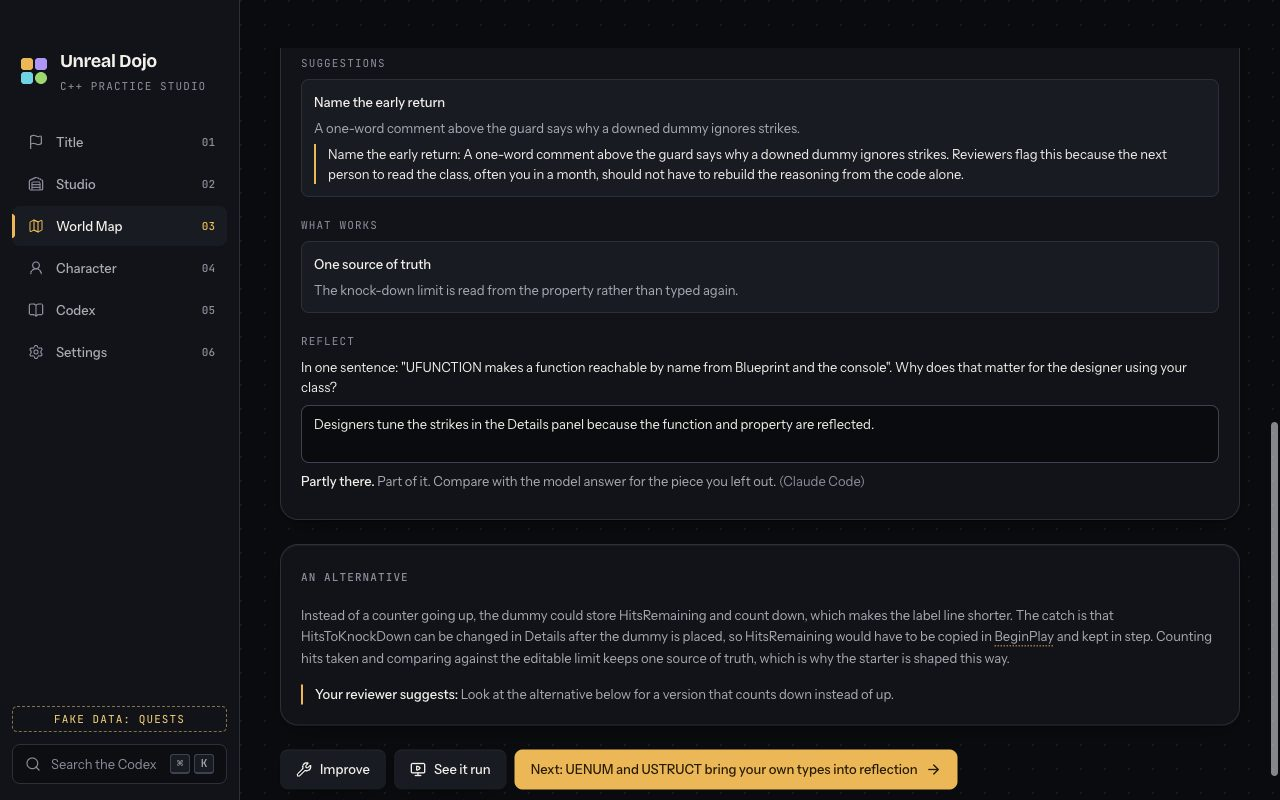
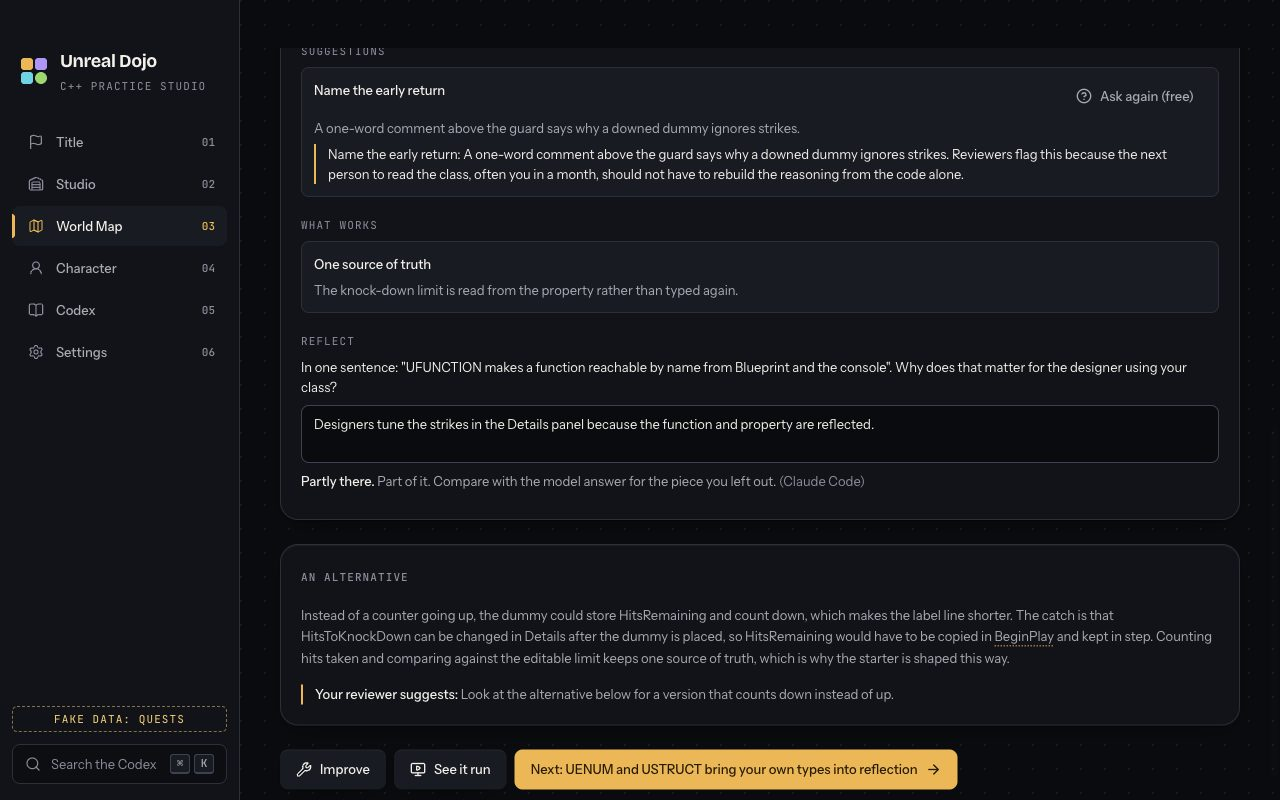
M3.4b fix round 1: fake matches main under Tests only, Why? asks again, reflection timeout
- Fake under Tests only: no fallbackReason on the review or the reflection,
  and main's self-check note (A953).
- "Why?" keeps an "Ask again (free)" button after an answer, since fallback
  answers are never kept (A953).
- Follow-up timeouts say "Press Ask again to try once more" instead of
  "Retry review": ReviewService failover gains timeoutAction, set for
  explainFinding and gradeReflection (A954; one line in ai-review's file,
  ai-review.md updated, reviewExtras.test.ts checks the wording).
- Fake: the first reflection under Claude Code times out; e2e covers the
  self-check, Ask again, and the AI grade, with a screenshot.

Changed region(s): [[0.9688, 0.5312, 1.0, 0.9688], [0.2188, 0.0625, 0.3438, 0.1562], [0.8438, 0.0938, 0.9375, 0.125]]

diff --git a/e2e/ui-quests-flow.spec.ts b/e2e/ui-quests-flow.spec.ts
@@ -589,6 +589,14 @@ test("a build: explain the marked lines, Run fails, a hint, fix, Run passes, Sub
 	await expect(window.getByTestId("finding-explanation")).toBeVisible();
 	await window.getByTestId("reflection").getByRole("textbox").fill("Designers tune the strikes in the Details panel because the function and property are reflected.");
 	await window.getByTestId("reflection").getByRole("button", { name: "Send my answer" }).click();
+
+	// The first reflection times out (as the first review did): a self-check with the reason and Ask again, which then gets Claude Code's grade (A954).
+	await expect(window.getByTestId("reflection-grade")).toHaveAttribute("data-provider", "tests-only");
+	await expect(window.getByTestId("reflection-fallback")).toContainText("Press Ask again");
+	await expect(window.getByTestId("reflection-fallback")).not.toContainText("Retry review");
+	await window.getByTestId("reflection").scrollIntoViewIfNeeded();
+	await saveScreenshot("loot-reflection-timeout");
+	await window.getByTestId("reflection-ask-again").click();
 	await expect(window.getByTestId("reflection-grade")).toHaveAttribute("data-provider", "claude-code");
 
 	// The alternative comes from getQuestAlternative after the pass, with the AI reviewer's pointer (A850).
@@ -620,7 +628,7 @@ test("a build: explain the marked lines, Run fails, a hint, fix, Run passes, Sub
 	await expect(window.getByTestId("reflection-grade")).toBeVisible();
 });
 
-test("with Tests only, Why? and the reflection answer as self-checks with the reason, and the alternative has no reviewer hint (A855, A950)", async () =>
+test("with Tests only, Why? answers with the reason and can be asked again, the reflection is a self-check, and the alternative has no reviewer hint (A855, A950, A953)", async () =>
 {
 	await setViewport(PROOF_SIZE.width, PROOF_SIZE.height);
 	await openFake("#/settings");
@@ -641,7 +649,10 @@ test("with Tests only, Why? and the reflection answer as self-checks with the re
 	await expect(window.getByTestId("screen-loot")).toHaveAttribute("data-passed", "true", { timeout: 20_000 });
 	await expect(window.getByTestId("code-review")).toHaveAttribute("data-provider", "tests-only");
 
-	// Why? still answers, with the reason no AI could explain it.
+	// Why? still answers, with the reason no AI could explain it; that answer is not kept, so it can be asked again (A953).
+	await window.getByTestId("finding-why").first().click();
+	await expect(window.getByTestId("finding-explanation")).toContainText("An AI reviewer can check this");
+	await expect(window.getByTestId("finding-why").first()).toHaveText(/Ask again \(free\)/);
 	await window.getByTestId("finding-why").first().click();
 	await expect(window.getByTestId("finding-explanation")).toContainText("An AI reviewer can check this");
 
@@ -650,7 +661,9 @@ test("with Tests only, Why? and the reflection answer as self-checks with the re
 	await window.getByTestId("reflection-send").click();
 	await expect(window.getByTestId("reflection-grade")).toHaveAttribute("data-provider", "tests-only");
 	await expect(window.getByTestId("reflection-grade")).toContainText("Not graded");
-	await expect(window.getByTestId("reflection-fallback")).toContainText("Settings");
+	await expect(window.getByTestId("reflection-grade")).toContainText("Self-check: reread your sentence against the question and your code.");
+	await expect(window.getByTestId("reflection-fallback")).toHaveCount(0);
+	await expect(window.getByTestId("reflection-ask-again")).toHaveCount(0);
 
 	// The alternative opens after the pass; a tests-only review gives no reviewer hint.
 	await expect(window.getByTestId("loot-alternative")).toBeVisible();

diff --git a/src/renderer/src/data/fake/FakeQuestFlow.ts b/src/renderer/src/data/fake/FakeQuestFlow.ts
@@ -65,6 +65,12 @@ export interface FakeQuestHost
 /** What the fake says when no AI reviewer is set up, in the tests-only provider's words. */
 const NO_REVIEWER_NOTE = "An AI reviewer can check this for you once Claude Code or an API key is set up in Settings.";
 
+/** The tests-only provider's note on a reflection it cannot grade (a self-check with no model answer). */
+const SELF_CHECK_NOTE = "Self-check: reread your sentence against the question and your code.";
+
+/** What a follow-up's timeout says to do, as the review service words it for follow-ups (A954). */
+const FOLLOW_UP_TIMEOUT_ACTION = "Press Ask again to try once more. Your tests still count.";
+
 /** An AppError the fake rejects with. */
 function fail(code: AppError["code"], message: string, suggestedAction: string): AppError
 {
@@ -95,6 +101,7 @@ export class FakeQuestFlow
 	private readonly drills = new FakeDrillSessions();
 	private readonly shownPlans = new Map<string, { plan: BreakdownPlan; referencePlanIndex: number }>();
 	private reviewTimedOut = false;
+	private reflectionTimedOut = false;
 
 	/** The run of each recorded Submit, by attempt id, so Retry review can review it again without a new run (A740). */
 	private readonly submittedRuns = new Map<string, { quest: LearnerQuest; run: RunResult }>();
@@ -438,7 +445,15 @@ export class FakeQuestFlow
 		if (attempt.reflection?.answer === answer && attempt.reflection.grade.provider !== "tests-only") return attempt.reflection.grade;
 
 		// With Tests only, nothing can grade the sentence: a self-check with the reason, never kept (A855).
-		if (this.host.settings().reviewProvider === "tests-only") return { score: 70, verdict: "partly", note: `Self-check against the question: ${attempt.review.reflectionQuestion}`, provider: "tests-only", fallbackReason: NO_REVIEWER_NOTE };
+		if (this.host.settings().reviewProvider === "tests-only") return { score: 70, verdict: "partly", note: SELF_CHECK_NOTE, provider: "tests-only" };
+
+		// With Claude Code chosen, the first reflection times out like the first review, so the self-check offers Ask again (A300, A954).
+		if (this.host.settings().reviewProvider === "claude-code" && !this.reflectionTimedOut)
+		{
+			this.reflectionTimedOut = true;
+
+			return { score: 70, verdict: "partly", note: SELF_CHECK_NOTE, provider: "tests-only", fallbackReason: `Claude Code did not answer within 3 minutes. ${FOLLOW_UP_TIMEOUT_ACTION}`, retryReviewSuggested: true };
+		}
 
 		const grade = gradeSentence(answer, this.quest(attempt.questId).concepts.join(" "));
 		const reflection = { answer, grade, at: new Date().toISOString() };
@@ -535,7 +550,7 @@ export class FakeQuestFlow
 		}
 
 		// With Tests only chosen, the review is graded by the tests alone and says why, as the review service does (no retry suggested: nothing timed out).
-		if (this.host.settings().reviewProvider === "tests-only") return { ...reviewCode(quest, run, "tests-only"), fallbackReason: NO_REVIEWER_NOTE, score: Math.round((run.testsPassed / Math.max(1, run.testsTotal)) * 100) };
+		if (this.host.settings().reviewProvider === "tests-only") return { ...reviewCode(quest, run, "tests-only"), score: Math.round((run.testsPassed / Math.max(1, run.testsTotal)) * 100) };
 
 		return reviewCode(quest, run, "claude-code");
 	}

diff --git a/tests/renderer/reviewExtrasScreens.test.ts b/tests/renderer/reviewExtrasScreens.test.ts
@@ -30,7 +30,7 @@ describe("the fake's review extras", () =>
 		expect(alternative?.reviewHint).toBeTruthy();
 	}, 20_000);
 
-	it("with Tests only: the review, Why? and the reflection fall back with the reason, nothing is kept, and the alternative has no hint", async () =>
+	it("with Tests only: the review, Why? and the reflection fall back like the real bridge, nothing is kept, and the alternative has no hint", async () =>
 	{
 		const fake = new FakeDojoApi("quests");
 		await fake.updateSettings({ reviewProvider: "tests-only" });
@@ -43,10 +43,28 @@ describe("the fake's review extras", () =>
 		const reflection = await fake.answerReflection({ attemptId, answer: "Designers tune the score from the editor because the list is reflected." });
 		const attempt = (await fake.getProgress()).attempts.find((candidate) => candidate.attemptId === attemptId);
 
+		// As the real ProviderSelector answers Tests only: no fallbackReason, and the tests-only provider's own words (A953).
+		expect(submitted.review?.fallbackReason).toBeUndefined();
 		expect(why).toContain("An AI reviewer can check this");
-		expect(reflection).toMatchObject({ provider: "tests-only", fallbackReason: expect.stringContaining("Settings") });
+		expect(reflection).toEqual({ score: 70, verdict: "partly", note: "Self-check: reread your sentence against the question and your code.", provider: "tests-only" });
 		expect(attempt?.explanations ?? {}).toEqual({});
 		expect(attempt?.reflection).toBeUndefined();
 		expect((await fake.getQuestAlternative("f1-score-keeper"))?.reviewHint).toBeUndefined();
+	}, 20_000);
+
+	it("with Claude Code: the first reflection times out into a self-check that offers Ask again, and asking again gets an AI grade that is kept (A954)", async () =>
+	{
+		const fake = new FakeDojoApi("quests");
+		await fake.updateSettings({ reviewProvider: "claude-code" });
+		const submitted = await fake.submitQuest({ runId: "r", questId: "f1-score-keeper", files: await passingScoreKeeperFiles(fake) });
+		const request = { attemptId: submitted.outcome.attempt.attemptId, answer: "Casting each entry keeps the keeper from trusting whatever a designer put in the list." };
+
+		const timedOut = await fake.answerReflection(request);
+		const askedAgain = await fake.answerReflection(request);
+		const attempt = (await fake.getProgress()).attempts.find((candidate) => candidate.attemptId === request.attemptId);
+
+		expect(timedOut).toMatchObject({ provider: "tests-only", retryReviewSuggested: true, fallbackReason: expect.stringContaining("Press Ask again") });
+		expect(askedAgain.provider).toBe("claude-code");
+		expect(attempt?.reflection?.grade.provider).toBe("claude-code");
 	}, 20_000);
 });

diff --git a/src/main/services/review/ReviewService.ts b/src/main/services/review/ReviewService.ts
@@ -76,12 +76,18 @@ interface FailoverOptions
 
 	/** True when a bad or refused reply should fall back to tests only with a retry hint instead of failing the call. */
 	fallBackOnBadReply?: boolean;
+
+	/** What a timeout tells the learner to do, in place of the error's own "Press Retry review" (follow-ups are asked again, not retried, A954). */
+	timeoutAction?: string;
 }
+
+/** What a follow-up's timeout says to do: "Why?" and the reflection are asked again from the same screen (A954). */
+export const FOLLOW_UP_TIMEOUT_ACTION = "Press Ask again to try once more. Your tests still count.";
 
 /** The failover rule of a follow-up: the paid API is skipped with a reason when the attempt's tests did not all pass (A70, A851, A852). */
 function followUpFailover(options: FollowUpOptions): FailoverOptions
 {
-	return { skipReason: (provider) => (provider.id === "anthropic-api" && !options.allowPaidApi ? API_FOLLOW_UP_REASON : null) };
+	return { skipReason: (provider) => (provider.id === "anthropic-api" && !options.allowPaidApi ? API_FOLLOW_UP_REASON : null), timeoutAction: FOLLOW_UP_TIMEOUT_ACTION };
 }
 
 /** The tiny request the Settings "Test" button sends through Claude Code, to prove the login works end to end. */
@@ -209,7 +215,7 @@ export class ReviewService
 
 				const { code, message, suggestedAction } = error.appError;
 
-				if (code === "review-timeout") return useTestsOnly({ reason: `${message} ${suggestedAction}`, retryReviewSuggested: true });
+				if (code === "review-timeout") return useTestsOnly({ reason: `${message} ${options.timeoutAction ?? suggestedAction}`, retryReviewSuggested: true });
 				if (options.fallBackOnBadReply && BAD_REPLY_CODES.has(code)) return useTestsOnly({ reason: `${message} The tests-only review stands in; press Retry review to ask again.`, retryReviewSuggested: true });
 				if (!PROVIDER_UNAVAILABLE_CODES.has(code)) throw error;
 

diff --git a/tests/review/reviewExtras.test.ts b/tests/review/reviewExtras.test.ts
@@ -204,6 +204,10 @@ describe("a fallback answer is never kept (A855)", () =>
 
 		const fallback = await handlers.explainFinding({ attemptId, findingIndex: 0 });
 		expect(fallback).toContain("took longer than 180 seconds");
+
+		// A follow-up is asked again from the same screen, so its timeout says "Ask again", never "Retry review" (A954).
+		expect(fallback).toContain("Press Ask again to try once more.");
+		expect(fallback).not.toContain("Retry review");
 		expect(progress.getProgress().attempts[0]).not.toHaveProperty("explanations");
 
 		await expect(handlers.explainFinding({ attemptId, findingIndex: 0 })).resolves.toBe("The real answer.");
@@ -220,7 +224,10 @@ describe("a fallback answer is never kept (A855)", () =>
 		const submit = await handlers.submitQuest(REQUEST, () => undefined, new AbortController().signal);
 		const request = { attemptId: submit.outcome.attempt.attemptId, answer: "The delegate keeps the HUD out of gameplay." };
 
-		await expect(handlers.answerReflection(request)).resolves.toMatchObject({ provider: "tests-only", retryReviewSuggested: true });
+		const timedOut = await handlers.answerReflection(request);
+		expect(timedOut).toMatchObject({ provider: "tests-only", retryReviewSuggested: true });
+		expect(timedOut.fallbackReason).toContain("Press Ask again to try once more.");
+		expect(timedOut.fallbackReason).not.toContain("Retry review");
 		expect(progress.getProgress().attempts[0]).not.toHaveProperty("reflection");
 
 		await expect(handlers.answerReflection(request)).resolves.toMatchObject({ provider: "claude-code", verdict: "correct" });

diff --git a/src/renderer/src/screens/quests/loot/FindingRow.tsx b/src/renderer/src/screens/quests/loot/FindingRow.tsx
@@ -15,13 +15,13 @@ interface FindingRowProps
 	readonly findingIndex: number;
 }
 
-/** Title, where it points, detail, and the Why? answer once asked. */
+/** Title, where it points, detail, and the Why? answer once asked, with Ask again after it. */
 export function FindingRow({ finding, attemptId, findingIndex }: FindingRowProps)
 {
 	const [explanation, setExplanation] = useState<string | null>(null);
 	const explain = useDojoAction((client) => client.explainFinding({ attemptId, findingIndex }));
 
-	/** Asks why, once. */
+	/** Asks why. A fallback answer is never kept (A855), so asking again can reach a reviewer; a kept AI answer comes back at once, still free (A953). */
 	const askWhy = async (): Promise<void> =>
 	{
 		const answer = await explain.run();
@@ -41,10 +41,10 @@ export function FindingRow({ finding, attemptId, findingIndex }: FindingRowProps
 						</span>
 					)}
 				</span>
-				{finding.severity !== "praise" && !explanation && (
+				{finding.severity !== "praise" && (
 					<Button size="sm" variant="ghost" onClick={() => void askWhy()} disabled={explain.isPending} data-testid="finding-why">
 						<HelpCircleIcon />
-						{explain.isPending ? "Asking" : "Why? (free)"}
+						{explain.isPending ? "Asking" : explanation ? "Ask again (free)" : "Why? (free)"}
 					</Button>
 				)}
 			</div>

diff --git a/docs/systems/ui-quests.md b/docs/systems/ui-quests.md
@@ -50,7 +50,7 @@ Last updated by M2.2b (flow bugs from the real-engine run).
 - Drill (`DrillScreen.tsx`, `screens/quests/drill/`): starts once, one item at a time, Check then Next (Cmd/Ctrl+Enter for both), the next due time under each answer, then the finish card (right count, XP, streak, next due date, chest, test-out; `drillSummaryCopy.ts` counts graded items only, names self-checked explain items on their own line, and shows "N explained" instead of "0/0" when nothing was graded, A940, A941). The Parsons fallback returns to its quest.
 - Breakdown (`screens/quests/breakdown/`): spec, React Flow board (`BreakdownBoard`, `PieceNode`), and a side panel that is also the keyboard path (`PiecePanel`: add by kind, list, name, required purpose; `ArrowPanel`: from, meaning, to). `boardModel.ts` holds the pure rules (new pieces, the grid layout with `columnsForBox` choosing columns from the board's measured shape through `useElementSize`, what blocks a submit, reference plans in the board's shape). Submit plan, then both boards side by side with the reference read-only, pattern chips, and the revision note (`RevisionPanel`); Grade my revision opens the loot. Positions are not saved (A355). The spec folds below 1300 wide; there the compare boards take the full width one above the other with the revise panel after them. The revise panel also lists the reference plan as text (`ReferencePlanList`). A boss opens on its breakdown.
 - Build and refactor (`screens/quests/build/`): `BuildWorkspace` lays out three columns. Left `BriefColumn` (scaffold badge, brief, concepts, patterns after a pass, rubric, the "See it in the editor" checklist from `splitBrief.ts`), folded below 1600 wide and when the gaps open (A360); `BuildQuestView` opens it only from a fresh read of the save (A813). Center `EditorColumn` (file tabs, Monaco) with the worked-level `SelfExplanationGate` (`markedLines.ts`, keys `<file>:<line>`, A359). Right `RunColumn`: sticky Run, Submit, Open Editor; `RunProgress` (loop and reason, phases, elapsed, last line, Cancel); `LastSubmitCard` with Retry review; `TestList`; `BuildLog` (the result shown is the last Run, or the last Submit with its tests or compiler output, from the loot hand-off or the quest's latest stored attempt, so it survives a reload, A810, A814); `HintSpells` (the paid hints' texts come back with the quest as `revealedHints`; Reveal asks `revealHint` for the next index, so a repeat is answered free, A501, A502); `FailedSubmitOffers` (Parsons fallback; Seer Stone explained but disabled, A358). The column wraps its buttons and never scrolls sideways.
-- Loot (`LootScreen.tsx`, `screens/quests/loot/`): `ScoreCountUp` (the one reward motion of the score), `XpBreakdownList`, `ProgressChanges` (level and role, cards flipping in, skills, spree, streak, chest, unlocks, next reviews), then `ConceptResultsSection`, `BreakdownGradeSection`, or `CodeReviewSection` (provider and review score, fallback with Retry review (`retryReview` reviews the stored attempt again with no new attempt; `withRetriedReview.ts` swaps only the review into the loot entry, A740), rubric lines, findings by severity with a free Why?, `ReflectionBox`: prefilled from the kept reflection, revisable, a self-check with its reason under Tests only, A951), the alternative after a pass (`AlternativePanel` from `getQuestAlternative`, with the reviewer's hint when an AI wrote one, A950), and Improve, See it run, Next. Next (the next open quest in the world, else back to the map, A812). Next takes focus once, when it first becomes known, and background refetches leave it alone (A815, A817). Next reviews name each day once, with past times as "due now" (A811, A816).
+- Loot (`LootScreen.tsx`, `screens/quests/loot/`): `ScoreCountUp` (the one reward motion of the score), `XpBreakdownList`, `ProgressChanges` (level and role, cards flipping in, skills, spree, streak, chest, unlocks, next reviews), then `ConceptResultsSection`, `BreakdownGradeSection`, or `CodeReviewSection` (provider and review score, fallback with Retry review (`retryReview` reviews the stored attempt again with no new attempt; `withRetriedReview.ts` swaps only the review into the loot entry, A740), rubric lines, findings by severity with a free Why? that can be asked again (A953), `ReflectionBox`: prefilled from the kept reflection, revisable, a self-check with its reason under Tests only, A951), the alternative after a pass (`AlternativePanel` from `getQuestAlternative`, with the reviewer's hint when an AI wrote one, A950), and Improve, See it run, Next. Next (the next open quest in the world, else back to the map, A812). Next takes focus once, when it first becomes known, and background refetches leave it alone (A815, A817). Next reviews name each day once, with past times as "due now" (A811, A816).
 
 ### Tests
 - `tests/renderer/questHelpers.test.ts` (shuffle, board model, brief split, marked lines, routes, term matching) and `tests/renderer/fakeQuestFlow.test.ts` (the fake serves content's World 1, grading, runs, hints, the review timeout, concept, breakdown, drills).

diff --git a/docs/decisions.md b/docs/decisions.md
@@ -10,8 +10,15 @@ Even with A972, every launch spent its first tenth of a second as a regular app,
 ### A972 2026-10-26 A hidden macOS test app is "prohibited", without dock.hide() (M0.1c, builder-shell)
 Options: keep `app.dock.hide()` (policy "accessory"); set the activation policy to "prohibited"; both. Chosen: "prohibited" alone, as the first statement of `start()`: no Dock icon, no menu bar, and the app can never become active. Calling `dock.hide()` afterwards set the policy back to "accessory" (seen with a process watcher), so it was removed. Nothing in the e2e suite broke. Reverse cost: none.
 
+### A954 2026-10-26 Follow-up timeouts say "Ask again"; the fake's first reflection times out (M3.4b fix round 1, builder-ui-quests; one line in ai-review's ReviewService)
+A timed-out "Why?" or reflection fell back with the review error's suggested action, "Press Retry review to ask again", but the loot screen has no Retry review for a follow-up: the learner asks again from the same place. Options: reword in the renderer; reword where the reason is built. Chosen: where it is built. `ReviewService`'s failover options gain an optional `timeoutAction`, which follow-ups set to "Press Ask again to try once more. Your tests still count." (`FOLLOW_UP_TIMEOUT_ACTION`); code reviews keep the Retry review wording. This is a small edit in ai-review's file, named here; `tests/review/reviewExtras.test.ts` now checks the wording for both follow-ups. The fake's first reflection under Claude Code now times out the same way (a tests-only self-check with that reason and `retryReviewSuggested`), like its first review, so the e2e can show Ask again leading to an AI grade. Reverse cost: none.
+
+### A953 2026-10-26 "Why?" can be asked again; the fake matches the real bridge under Tests only (M3.4b fix round 1, builder-ui-quests; Lead decision on the fake)
+A fallback answer to "Why?" is never kept (A855) so that the next ask reaches a reviewer, but the button hid after the first answer. Now it stays as "Ask again (free)"; a kept AI answer comes back at once, still free. And under Tests only the real `ProviderSelector` gives no `fallbackReason`, while the fake added one to the review and the reflection: the fake now leaves it out and words the reflection self-check as main does ("Self-check: reread your sentence against the question and your code."). `ProviderSelector` is unchanged (Lead decision). Reverse cost: none.
+
 ### A952 2026-10-26 "Why?" stays as it was; the fake falls back like the review service under Tests only (M3.4b, builder-ui-quests)
 `explainFinding` answers text whether an AI or a fallback answered (a fallback is the finding's detail plus why, never kept, A855), so the finding row shows any answer the same way and needs no new state; a second ask of a kept answer simply returns at once. The fake now matches main when Settings' review provider is Tests only: the code review is tests-only with the "set up a reviewer" reason, "Why?" answers the detail plus that reason, and the reflection answers a self-check with `fallbackReason`; neither is kept. Before, the fake answered every follow-up as an AI. Reverse cost: none.
+Fix round 1: the fake no longer adds a fallback reason under Tests only, and "Why?" can be asked again (A953, A954).
 
 ### A951 2026-10-26 The reflection box shows the kept answer and lets the learner revise it (M3.4b, builder-ui-quests)
 Options: keep the box locked after one answer; show the kept answer and allow a new sentence. Chosen: the second, as A852 grades a new sentence and replaces the kept one. On load the box is prefilled once from `PlayerProgress.attempts[].reflection` with its grade (the learner's typing is never overwritten). The grade shows while the box holds the graded sentence; editing hides it and offers "Send the new answer". An AI grade reads as before with the reviewer's name; a tests-only answer reads "Not graded: compare your sentence with the note" with its reason, and offers "Ask again" only when `retryReviewSuggested` (a timeout). Reverse cost: none.

diff --git a/docs/systems/ai-review.md b/docs/systems/ai-review.md
@@ -47,7 +47,7 @@ Last updated by M3.4 (alternative after a pass, kept explanations, reflection an
 ### Folder `src/main/services/review/`
 - `ReviewService.ts`: the one entry point. `reviewCode` (skips when the build failed), `gradeBreakdown`, `gradeExplain` (explain items and reflection answers), `explainFinding`, `getProviderStatuses` (cached checks), `testClaudeCode` (rechecks and sends a tiny real round trip, so "not signed in" shows in Settings; a not-installed or not-signed-in failure marks Claude Code in the selector, a timeout does not, a pass clears it). `createReviewService(settings)` builds the real parts. Each call asks the selector and runs the grader; what a failure does depends on its code:
   - `review-unavailable` or `secure-storage-unavailable`: the provider is marked and the selector asks again, so the review lands on the next AI provider in `auto` or on tests-only, which sets `fallbackReason` (A154, A301).
-  - `review-timeout`: tests-only answers at once with `fallbackReason` and `retryReviewSuggested: true`; the next AI provider is never tried, so a slow Claude Code never becomes a paid API review, and the timed-out provider is not marked (A300).
+  - `review-timeout`: tests-only answers at once with `fallbackReason` and `retryReviewSuggested: true`; the next AI provider is never tried, so a slow Claude Code never becomes a paid API review, and the timed-out provider is not marked (A300). The reason is the error's message plus its suggested action ("Press Retry review"), except on the two follow-ups, whose failover sets `timeoutAction` to "Press Ask again to try once more" because they are asked again from the loot screen, not retried (A954).
   - cancel, refusal, invalid output, and anything else are thrown as they are.
 - `ProviderSelector.ts`: reads `IReviewSettings.providerChoice()` on every call. `auto` walks Claude Code, then the API; anything unavailable ends in tests-only with the joined reasons. `markUnavailable(id, reason)` sets a provider aside for 10 minutes (`UNAVAILABLE_MARK_MS`, clock injectable); `statuses()` shows the mark's reason; `clearMark(id)` ends it.
 - `ReviewInputs.ts`: what each grader reads (quest brief, rubric, files, `RunResult`; breakdown spec, required pieces, reference plans, both plans, revision note; explain prompt, model answer, context, sentence; finding plus files). Defined here until content types land (A148).

diff --git a/docs/iterations.md b/docs/iterations.md
@@ -1513,7 +1513,17 @@ What to look for: anything confusing, slow, or wrong. Note the step number for e
 *After a pass with Claude Code: the alternative and the reviewer's pointer; the reflection graded by Claude Code above it.*
 
 ![[m2-2-loot-review-extras-tests-only.jpg|800]]
-*With Tests only: "Why?" answers with the reason, the reflection is a self-check, and the alternative has no reviewer pointer.*
+*With Tests only: "Why?" answers with the reason and can be asked again, the reflection is a self-check in the reviewer's own words, and the alternative has no reviewer pointer.*
 
 - Decisions made: A950 to A952.
 - Left for content-engine: no screen reads `alternative` or `alternativeNote` from the quest any more, so the catalog can stop sending them before a pass (A850).
+
+### Fix round 1
+- What the reviewer and the Lead asked for: the sample data added a "set up a reviewer" reason under Tests only that the real app does not give, and worded the reflection self-check differently; "Why?" could not be asked again after a fallback answer, which is never kept; and the reflection's timeout and "Ask again" were never shown.
+- What changed: the sample data now answers exactly like the real app under Tests only. "Why?" keeps its button as "Ask again (free)" after an answer. When a reviewer times out on "Why?" or the reflection, the reason now says "Press Ask again to try once more" instead of pointing at Retry review, which those two do not have (a one-line change where the review service builds the reason). The sample data's first reflection with Claude Code times out, so the screens show the self-check with Ask again, and asking again gets Claude Code's grade.
+- Proof (rebased on main 8b5a82a): `npm run typecheck` passes; `npm test` 78 files, 922 passed, 24 skipped; `npm run build` passes; `npx tsx tools/verify-content.ts` no problems (13 warnings from content); `npm run test:e2e` with hidden windows: 31 passed and 1 skipped (the opt-in real-engine learner flow).
+
+![[m2-2-loot-reflection-timeout.jpg|800]]
+*The reflection's timeout: a self-check with the reason and Ask again; "Why?" above shows Ask again (free).*
+
+- Decisions made: A953 and A954.
